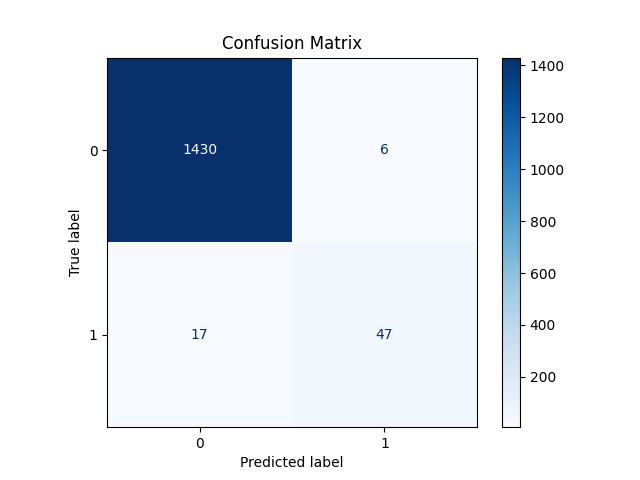
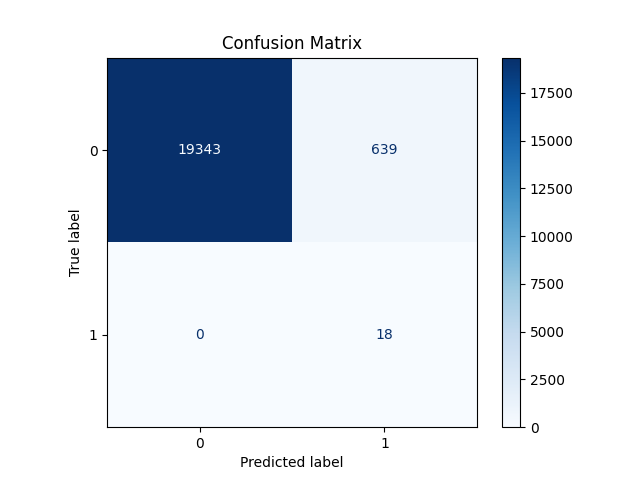
changes added

diff --git a/train13.py b/train13.py
@@ -8,10 +8,11 @@ from utilities import json_update
 from net5 import ModelBuilder  # assuming net3 is updated with softmax support
 from tensorflow.keras.utils import to_categorical
 from tensorflow.keras.callbacks import ModelCheckpoint, ReduceLROnPlateau, EarlyStopping
-from tensorflow.keras.optimizers import SGD
+from tensorflow.keras.optimizers import SGD, Adam
 from sklearn.metrics import precision_score, recall_score, f1_score, average_precision_score
-import matplotlib.pyplot as plt
 from TrainingVisualizer import TrainingVisualizer
+from sklearn.utils import class_weight
+
 
 class Train:
     def __init__(self, model_name:str, total_simulations:int, sampledSitesIncludeCausals: int, columns:int,
@@ -26,12 +27,23 @@ class Train:
     
 
     def data_splitter(self):
-        return train_test_split(
+        # First split into train and temp (which will be split into val and test)
+        X_train, X_temp, y_train, y_temp = train_test_split(
             self.dataset.X.numpy(),
             self.dataset.y.numpy(),
-            test_size=self.test_ratio,
+            test_size=self.test_ratio + 0.1, 
             random_state=42
         )
+
+        val_ratio = 0.5  
+        X_val, X_test, y_val, y_test = train_test_split(
+            X_temp,
+            y_temp,
+            test_size=val_ratio,
+            random_state=42
+        )
+
+        return X_train, X_val, X_test, y_train, y_val, y_test
 
 
     def run(self):
@@ -41,15 +53,22 @@ class Train:
         self.logger.info("Data loaded successfully.") 
         self.logger.info("Splitting data into training and testing sets...")
 
-        X_train, X_test, y_train, y_test = self.data_splitter()
+        X_train, X_val, X_test, y_train, y_val, y_test = self.data_splitter()
 
         self.logger.debug(f"y_train True labels: {len(y_train[y_train == 1]) }")
         self.logger.debug(f"y_train False labels: {len(y_train[y_train == 0]) }")
         self.logger.debug(f"y_test True labels: {len(y_test[y_test == 1]) }")
         self.logger.debug(f"y_test False labels: {len(y_test[y_test == 0]) }")
+        self.logger.debug(f"y_val True labels: {len(y_val[y_val == 1]) }")
+        self.logger.debug(f"y_val False labels: {len(y_val[y_val == 0]) }")
 
         y_train = to_categorical(y_train, 2)
         y_test = to_categorical(y_test, 2)
+        y_val = to_categorical(y_val, 2)
+
+        X_train = np.expand_dims(X_train, -1)
+        X_test = np.expand_dims(X_test, -1)
+        X_val = np.expand_dims(X_val, -1)
 
         self.logger.debug(f"Data split into {len(X_train)} training samples and {len(X_test)} testing samples.")
         self.logger.info("Data split successfully.")
@@ -60,11 +79,17 @@ class Train:
         modelBuilder = ModelBuilder(self.height, self.width)
         model = modelBuilder.model_summary()
         
-        model.compile(optimizer=SGD(learning_rate=0.001, momentum=0.9), loss='categorical_crossentropy', metrics=['accuracy'])
-        X_train = np.expand_dims(X_train, -1)
-        X_test = np.expand_dims(X_test, -1)
+        model.compile(optimizer=Adam(learning_rate=0.001), loss='categorical_crossentropy', metrics=['accuracy'])
 
+     
         self.logger.info("Training model...")
+
+        y_train_labels = np.argmax(y_train, axis=1)
+
+     
+        weights = class_weight.compute_class_weight(class_weight='balanced', classes=np.unique(y_train_labels), y=y_train_labels)
+        class_weights = dict(enumerate(weights))
+        self.logger.info(f"Class weights: {class_weights}")
 
         checkpoint_cb = ModelCheckpoint(
             filepath=f"{MODEL_PATH_TENSOR_DIR}/{self.model_name}_best.h5",
@@ -91,10 +116,11 @@ class Train:
         )
 
         history = model.fit(X_train, y_train, 
-                validation_data=(X_test, y_test),
+                validation_data=(X_val, y_val),
                   epochs=self.epochs, 
                   batch_size=self.batch_size, 
                   callbacks=[checkpoint_cb, early_stopping_cb, lr_scheduler],
+                  class_weight=class_weights,
                   verbose=1)
 
         json_update("model_name", f"{MODEL_PATH_TENSOR_DIR}/{self.model_name}.h5")
@@ -106,7 +132,7 @@ class Train:
         self.logger.info(f'Test loss: {test_loss}')
         self.logger.info(f'Test accuracy: {test_acc}')
 
-        # Predict and calculate PR metrics
+  
         y_pred_probs = model.predict(X_test)
         y_pred_labels = np.argmax(y_pred_probs, axis=1)
         y_test_labels = np.argmax(y_test, axis=1)
@@ -121,15 +147,12 @@ class Train:
         self.logger.info(f'F1-score: {f1:.4f}')
         self.logger.info(f'AUC-PR (Precision-Recall): {auc_pr:.4f}')
         self.logger.info("Model training completed successfully.")
-        
-                # Visualizer - plot the history
-        visualizer = TrainingVisualizer('./metrics')  # instantiate the visualizer
 
-        # Plot and save the plots
-        visualizer.plot_history(history)  # Plot training/validation loss/accuracy
-        visualizer.plot_confusion_matrix(y_test_labels, y_pred_labels)  # Confusion Matrix
-        visualizer.plot_precision_recall(y_test[:, 1], y_pred_probs[:, 1])  # Precision-Recall curve
-        visualizer.plot_roc_curve(y_test[:, 1], y_pred_probs[:, 1])  # ROC curve
+        visualizer = TrainingVisualizer('./metrics')  
+        visualizer.plot_history(history) 
+        visualizer.plot_confusion_matrix(y_test_labels, y_pred_labels)
+        visualizer.plot_precision_recall(y_test[:, 1], y_pred_probs[:, 1]) 
+        visualizer.plot_roc_curve(y_test[:, 1], y_pred_probs[:, 1])
 
 
 if __name__ == '__main__':

diff --git a/net5.py b/net5.py
@@ -7,21 +7,36 @@ class ModelBuilder:
         self.width = width
 
     def build(self):
+        l2_reg = tf.keras.regularizers.l2(0.01)
+
         matrix_input = Input(shape=(self.height, self.width, 1))
 
-        x = layers.Conv2D(16, kernel_size=(3, 3), activation='relu', padding='same')(matrix_input)
+        # First Conv Block
+        x = layers.Conv2D(16, kernel_size=(3, 3), activation='tanh', padding='same',
+                          kernel_regularizer=l2_reg, bias_regularizer=l2_reg)(matrix_input)
         x = layers.BatchNormalization()(x)
+        x = layers.Dropout(0.3)(x)
         x = layers.MaxPooling2D(pool_size=(2, 2))(x)
-        
-        x = layers.Conv2D(32, kernel_size=(3, 3), activation='relu', padding='same')(x)
+
+        # Second Conv Block
+        x = layers.Conv2D(32, kernel_size=(3, 3), activation='tanh', padding='same',
+                          kernel_regularizer=l2_reg, bias_regularizer=l2_reg)(x)
         x = layers.BatchNormalization()(x)
+        x = layers.Dropout(0.3)(x)
         x = layers.MaxPooling2D(pool_size=(2, 2))(x)
-        
+
+        # Global pooling
         x = layers.GlobalAveragePooling2D()(x)
-        x = layers.Dense(64, activation='relu', kernel_regularizer=tf.keras.regularizers.l2(0.01))(x)
-        x = layers.Dropout(rate=0.5)(x)
-        
-        output = layers.Dense(2, activation='softmax')(x)
+
+        # Fully connected
+        x = layers.Dense(64, activation='relu',
+                         kernel_regularizer=l2_reg, bias_regularizer=l2_reg,
+                         activity_regularizer=tf.keras.regularizers.l1(0.005))(x)
+        x = layers.Dropout(0.5)(x)
+
+        # Output
+        output = layers.Dense(2, activation='softmax',
+                              kernel_regularizer=l2_reg, bias_regularizer=l2_reg)(x)
 
         return Model(inputs=matrix_input, outputs=output)
 

diff --git a/run3.py b/run3.py
@@ -184,17 +184,17 @@ class Run:
         fig.update_layout(
             title="Prediction of SNPs associated with the trait.",
             xaxis=dict(tickmode='array', tickvals=x_ticks, ticktext=x_tick_labels, title="Chromosome"),
-            yaxis=dict(title="Prediction(%)", range=[self.th, 100]),
+            yaxis=dict(title="Prediction(%)", range=[0, 100]),
             showlegend=True,
             shapes=[
                 dict(
                     type='line',
                     x0=0,
                     x1=current_position,  # spans the full x-axis range aligned with chromosomes
-                    y0=50,
-                    y1=50,
+                    y0=self.th,
+                    y1=self.th,
                     line=dict(color='green', width=2, dash='dash'),
-                    name="50% Threshold Line"
+                    name=f"{self.th} Threshold Line"
                 )
             ],
             updatemenus=[
@@ -242,7 +242,7 @@ class Run:
 
 
         output = self.load_model_and_predict(sorted_vcf, self.func)
-        causal_snps = len(np.where(output/100 > 0.5)[0])
+        causal_snps = len(np.where(output/100 >self.th/100.0)[0])
         percentage = causal_snps/len(output)
         print(f'Causal SNPs(%):{100*percentage}')
         self.plot_data(chrom, output)

diff --git a/GWANN.py b/GWANN.py
@@ -53,7 +53,7 @@ class CLIManager:
     @click.option('--output','output_path',default="results/GWAS",help="prefix of output plot and causative SNPs indexes in the VCF")
     @click.option('--cpu/;','cpu',default=False,required=False,help="force on cpu")
     @click.option('--transform', '--f', 'func', default="", type=str, help="The name of the function to modify the output (tanh_map, logit_map, log_map)")
-    @click.option('--threshold', '--th', 'th', default=0, type=int, help="Plot resolution begin from this threshold (% Prediction)")
+    @click.option('--threshold', '--th', 'th', default=50, type=int, help="Causal classification if  >= threshold (% Prediction)")
     @click.option('--geneModel', '--GM', 'gm', default="recessive", type=str, help="Choose one of the four models, where a value of 0.5 is interpreted as follows: recessive = 0, dominant = 1, additive = 0.5, noHet = -1")  
     def run(
         vcf: str,

diff --git a/net3.py b/net3.py
@@ -13,9 +13,9 @@ class ModelBuilder:
         x = layers.Conv2D(5, kernel_size=(2, 2), activation='relu')(x)
         x = layers.MaxPooling2D(pool_size=(2, 2))(x)
         x = layers.Conv2D(10, kernel_size=(2, 2), activation='relu')(x)
+        x = layers.Flatten()(x)
         x = layers.Dense(10)(x)
         x = layers.Dropout(rate=0.2)(x)
-        x = layers.Flatten()(x)
         output = layers.Dense(2, activation='softmax')(x)
 
         return Model(inputs=matrix_input, outputs=output)

diff --git a/utilities.py b/utilities.py
@@ -53,7 +53,9 @@ def createImages(columns, data, sim_indivduals):
 
 
     if individuals < sim_indivduals:
-        pad = np.full((data.shape[0], sim_indivduals - individuals), 0) 
+        pval = 0
+        logger.info(f'Padding value:{pval}')
+        pad = np.full((data.shape[0], sim_indivduals - individuals), pval) 
         data = np.concatenate((data, pad), axis=1)
         logger.info(f"Padded to shape: {data.shape}")
 
